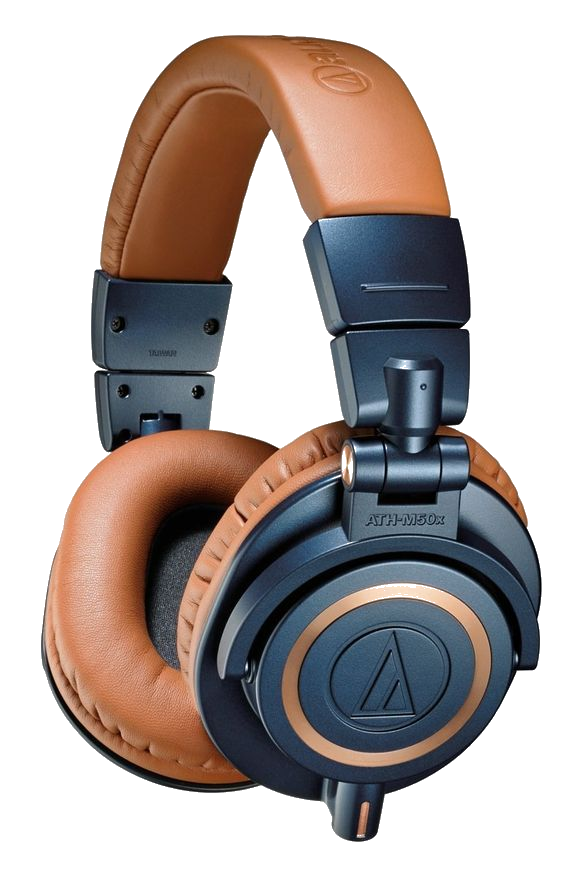
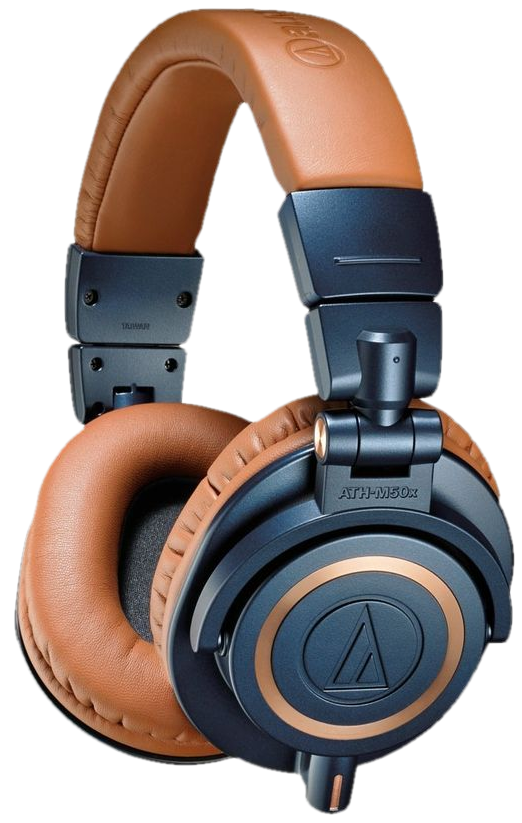
adding new image and edding name for hero component

diff --git a/src/Components/Home/Hero/Swiper.jsx b/src/Components/Home/Hero/Swiper.jsx
@@ -1,5 +1,5 @@
 import React from "react";
-import img from "../../../Images/headphone2.png";
+import img from "../../../Images/headphone4.png";
 import ScrollAnimation from "react-animate-on-scroll";
 import ReactTypingEffect from "react-typing-effect";
 
